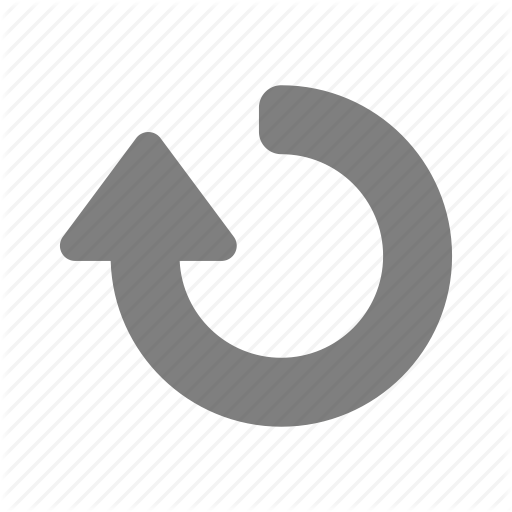
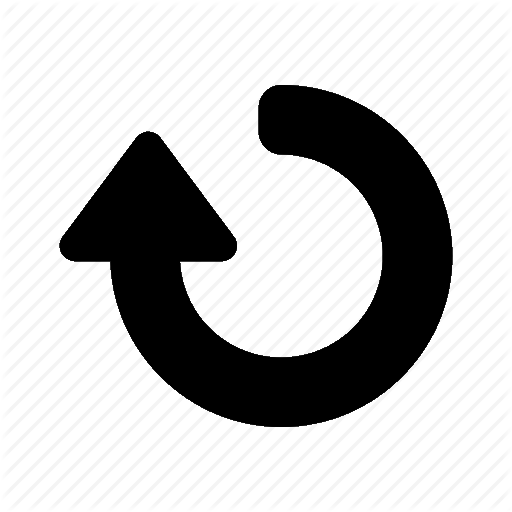
Histograma no Dialog + Icone reset preto

Changed region(s): [[0.0938, 0.1562, 0.9062, 0.8438]]

diff --git a/pse/gui/dialog_histogram.py b/pse/gui/dialog_histogram.py
@@ -2,6 +2,7 @@
 import cv2
 from matplotlib import pyplot as plt
 import numpy as np
+import os
 from PyQt5.QtCore import (Qt)
 from PyQt5.QtGui import (QPixmap)
 from PyQt5.QtWidgets import (QDialog,
@@ -52,13 +53,16 @@ class DialogHistogram(QDialog):
         #Adcionar o Histograma à Widget
         hLayout = QHBoxLayout()
         self.imgLabel = QLabel()
+        pixmap = QPixmap(HIST + 'hist.png')
+        self.imgLabel.setPixmap(pixmap)
+        self.imgLabel.show()
         hLayout.addWidget(self.imgLabel)
         layout.addRow(hLayout)
 
         # Butões de OK e Cancel
         buttons = QDialogButtonBox(
             QDialogButtonBox.Ok, Qt.Horizontal, self)
-        buttons.accepted.connect(self.accept)
+        buttons.accepted.connect(self.btnOkPressed)
         layout.addRow(buttons)
         
         self.setLayout(layout)
@@ -66,38 +70,38 @@ class DialogHistogram(QDialog):
 
 
     def btnState(self, b):
-        if b.text() == 'RBG':
+        if b.text() == 'RGB':
             if b.isChecked() == True:
-                pixmap = QPixmap(HIST + 'hist.png').scaled(256, 256)
+                pixmap = QPixmap(HIST + 'hist.png')
                 self.imgLabel.setPixmap(pixmap)
                 self.imgLabel.show()
                 
         if b.text() == 'RED':
             if b.isChecked() == True:
-                pixmap = QPixmap(HIST + 'red.png').scaled(256, 256)
+                pixmap = QPixmap(HIST + 'red.png')
                 self.imgLabel.setPixmap(pixmap)
                 self.imgLabel.show()
-                print(b.text() + ' is selected')
-            else:
-                print(b.text() + ' is deselected')
 
         if b.text() == 'GREEN':
             if b.isChecked() == True:
-                pixmap = QPixmap(HIST + 'green.png').scaled(256, 256)
+                pixmap = QPixmap(HIST + 'green.png')
                 self.imgLabel.setPixmap(pixmap)
                 self.imgLabel.show()
-                print(b.text() + ' is selected')
-            else:
-                print(b.text() + ' is deselected')
 
         if b.text() == 'BLUE':
             if b.isChecked() == True:
-                pixmap = QPixmap(HIST + 'blue.png').scaled(256, 256)
+                pixmap = QPixmap(HIST + 'blue.png')
                 self.imgLabel.setPixmap(pixmap)
                 self.imgLabel.show()
-                print(b.text() + ' is selected')
-            else:
-                print(b.text() + ' is deselected')
+
+    def btnOkPressed(self):
+        if os.path.exists(HIST + 'orig_tmp.jpg'):
+            os.remove(HIST + 'orig_tmp.jpg')
+            os.remove(HIST + 'hist.png')
+            os.remove(HIST + 'red.png')
+            os.remove(HIST + 'green.png')
+            os.remove(HIST + 'blue.png')
+        self.accept()
 
 
     def saveHistograms(self):
@@ -122,6 +126,7 @@ class DialogHistogram(QDialog):
         plt.plot(histr, color = 'r')
         plt.xlim([0,256])
         plt.savefig(HIST + 'red.png')
+        plt.clf()
 
 
     @staticmethod

diff --git a/pse/util/resources.py b/pse/util/resources.py
@@ -10,5 +10,6 @@ ICONS = {
     'filters': PATH + 'images/filters.png',
     'histogram': PATH + 'images/histogram.png',
     'open': PATH + 'images/open.png',
-    'save': PATH + 'images/save.png'
+    'save': PATH + 'images/save.png',
+    'reset': PATH + 'images/reset.png'
 }
